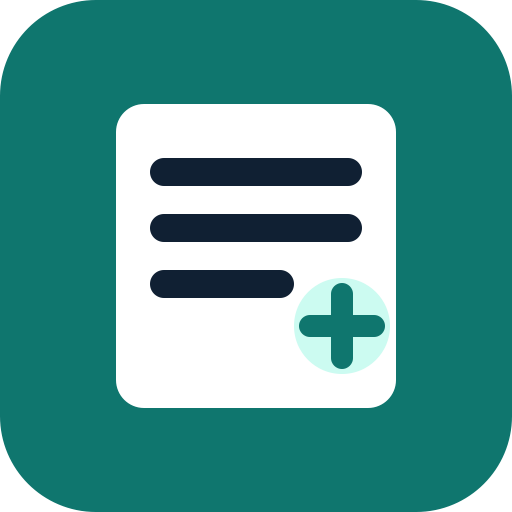
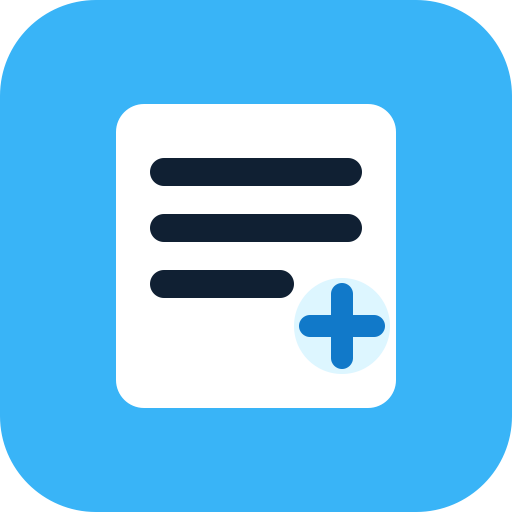
Remove old green mobile UI accents

diff --git a/frontend/src/components/common/AiResultCards.jsx b/frontend/src/components/common/AiResultCards.jsx
@@ -30,7 +30,7 @@ export function ExplanationResultCard({ aiResponse }) {
 
 export function GradingResultCard({ result }) {
   const score = Number(result.score || 0);
-  const scoreStyle = score >= 80 ? 'text-emerald-700 bg-emerald-50 border-emerald-200' : score >= 50 ? 'text-amber-700 bg-amber-50 border-amber-200' : 'text-red-700 bg-red-50 border-red-200';
+  const scoreStyle = score >= 80 ? 'text-ocean bg-sky-50 border-sky-200' : score >= 50 ? 'text-amber-700 bg-amber-50 border-amber-200' : 'text-red-700 bg-red-50 border-red-200';
 
   return (
     <article className="fade-in smooth-card app-card p-4">